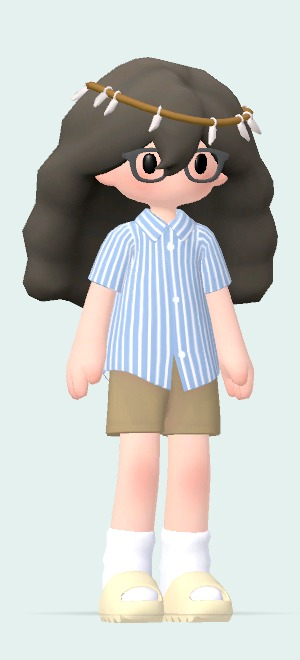
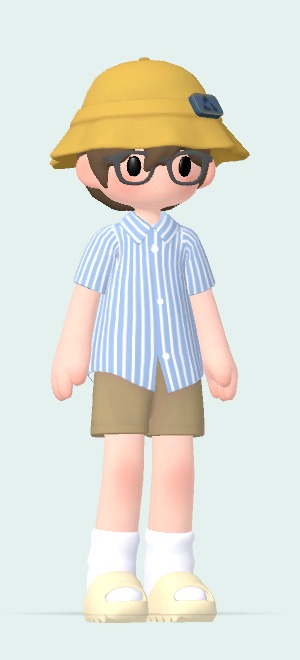
art(362/347): Lena, Rafa and Nadia resident cards with batch-3 parts, crops and review sheets

diff --git a/docs/design/resident-cards-362-347-2026-10-30/README.md b/docs/design/resident-cards-362-347-2026-10-30/README.md
@@ -1,0 +1,26 @@
+# SGODOT-362 stage 2 / 347 · Lena, Rafa and Nadia resident cards (2026-10-30)
+
+Rebaked with the batch-3 NPC parts (赵云, runtime branch `art/npc-parts-batch3`, accepted by
+不知火舞 on 362 499a21b6 and 347 801aad11) on the shared portrait stage
+(`tools/art/bake_resident_portraits.gd`, checkout of `art/npc-batch3-integ` 0fed08b5),
+looks in `looks.json`:
+
+- Lena: `hairhat51_npc_lena` + glass1 + cloth1_1 + shoes1
+- Rafa: `hairhat36_npc_rafa` + `cloth1_1_npc_rafa` + shoes4
+- Nadia: `hairhat41_npc_nadia_baker` + `cloth1_1_npc_nadia` + shoes2
+
+`portrait_crops.json` follows 不知火舞's framing (eyes centred, at 60–65 % of the circle,
+face about half its width, hat complete); eye centres were measured from the black pupil
+pixels, not by eye:
+
+| | stamp | face | eyes in the face circle |
+|---|---|---|---|
+| lena | [46,46,212,265] | [39,16,240,240] | 50 % across, 63 % down |
+| rafa | [56,50,190,238] | [44,23,240,240] | 50 % across, 63 % down |
+| nadia | [58,50,210,262] | [35,29,250,250] | 56 % across, 62 % down |
+
+Nadia's baker cap is flat and wide: with her eyes exactly centred the circle can be at most
+250 px (the card width) and would cut the cap's top corners, so it sits 14 px left; accepted by
+不知火舞 (362 0d120f5c, 347 7e931ef9). `before-after.png`: current farm-dev cards vs the new
+ones; `crops.png`: stamps at 32×40 / ×3 / ×6 and the face circle with guides.
+The cards go to farm-dev with the batch-3 integration (the `.import` files are unchanged).
